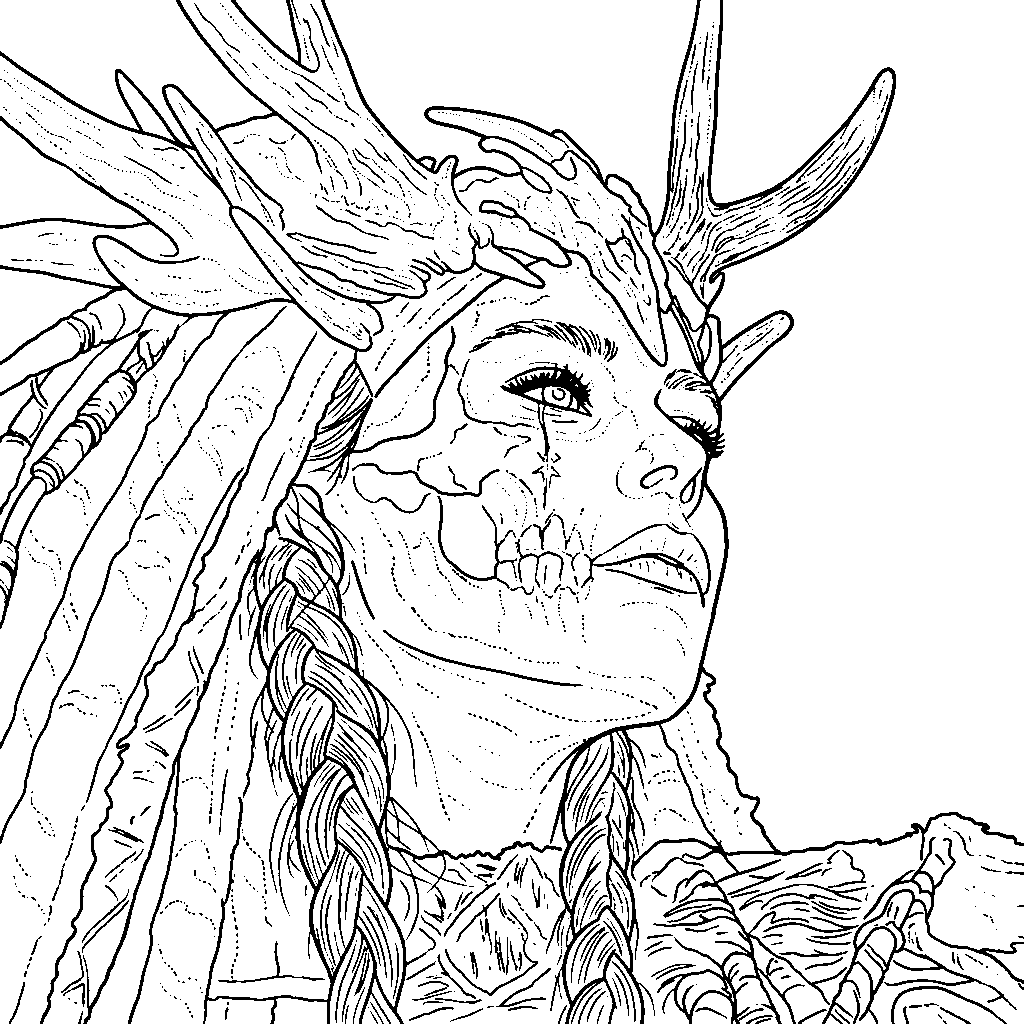
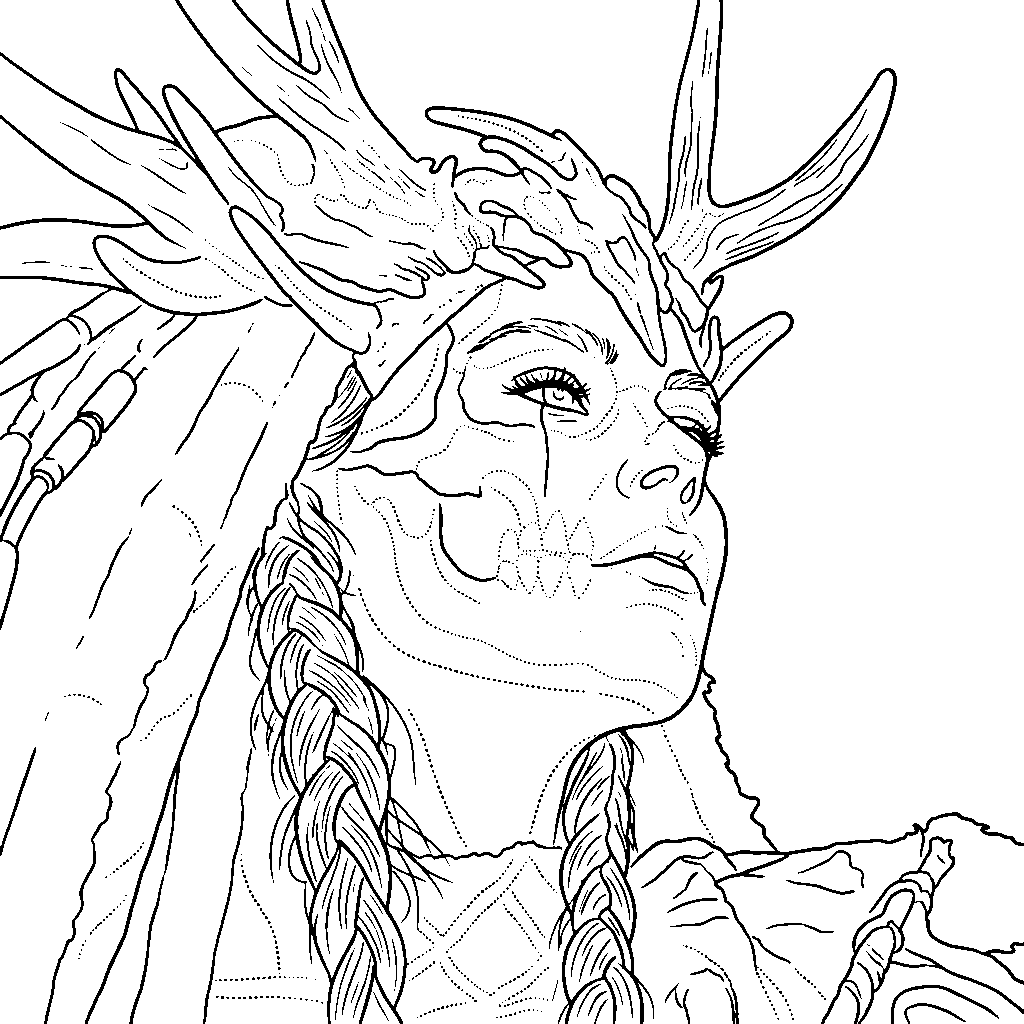
auto-commit for e980bbc4-aa8e-4c5b-bdab-9f3ab5251773

diff --git a/backend/server.py b/backend/server.py
@@ -2174,6 +2174,43 @@ FIDELITY — strict (applies to all detail levels):
   • Main subject silhouette / outer body outline may be slightly heavier (thin-to-medium) but still never thick or bold
   • Dotted/dashed shading guides on cheeks, jawline, brow ridges, nose bridge, under the eyes, lip volumes, and hair light-to-dark transitions keep their normal visible dot size — only the SOLID lines get thinner.
 
+DETAIL PLACEMENT AND LIGHTING LOGIC (applies universally, strongest in HIGH DEF):
+- Detail must NOT be distributed evenly across the subject.
+- Texture and line density must follow LIGHT, not just form.
+- In areas where the source image shows BRIGHT HIGHLIGHTS (where light reflects):
+  → use MORE fine line detail and strand definition
+  → hair/fur should show the MOST individual strands in these regions
+- In areas where the source image falls into SHADOW:
+  → REDUCE line density significantly
+  → simplify into clean mass shapes with minimal internal lines
+  → DO NOT fill shadow areas with dense texture lines
+- Hair and fur must NOT be uniformly filled with strands across the entire form.
+  → uneven density is REQUIRED to correctly represent lighting
+
+DOTTED LINE USAGE (STRICT):
+- Dotted or dashed lines are ONLY for marking AREA TRANSITIONS between light and shadow.
+- Dotted lines must:
+  → follow the boundary between light and dark regions (like contour levels)
+  → describe SHAPE transitions, not texture flow
+- Dotted lines must NOT:
+  → follow hair strand direction
+  → be used to simulate hair texture
+  → be placed inside highlight regions
+- Hair/fur texture = fine SOLID lines.
+- Lighting transitions = DOTTED lines.
+- These are separate systems and must NEVER be mixed in the same region.
+
+FACIAL FEATURE CLARITY:
+- Eyes, iris, pupils, eyelids, and lips must remain ultra-clean and readable.
+- Do NOT stack multiple lines close together in small facial areas.
+- Preserve structure using minimal, precise micro-lines only.
+
+OVERALL GOAL — the stencil must read like intentional tattoo linework:
+- light reveals detail
+- shadow simplifies form
+- dots guide shading placement
+- line density is controlled and purposeful, never uniform
+
 Style: Professional tattoo stencil suitable for thermal transfer paper"""
 
         
@@ -2378,6 +2415,43 @@ FIDELITY — strict (applies to all detail levels):
   • Use the THINNEST possible fine SOLID-LINE weight for ALL interior hair texture / flow lines — noticeably finer than the hair silhouette; hair strands packed close together must remain clearly individual and not merge into each other
   • Main subject silhouette / outer body outline may be slightly heavier (thin-to-medium) but still never thick or bold
   • Dotted/dashed shading guides on cheeks, jawline, brow ridges, nose bridge, under the eyes, lip volumes, and hair light-to-dark transitions keep their normal visible dot size — only the SOLID lines get thinner.
+
+DETAIL PLACEMENT AND LIGHTING LOGIC (applies universally, strongest in HIGH DEF):
+- Detail must NOT be distributed evenly across the subject.
+- Texture and line density must follow LIGHT, not just form.
+- In areas where the source image shows BRIGHT HIGHLIGHTS (where light reflects):
+  → use MORE fine line detail and strand definition
+  → hair/fur should show the MOST individual strands in these regions
+- In areas where the source image falls into SHADOW:
+  → REDUCE line density significantly
+  → simplify into clean mass shapes with minimal internal lines
+  → DO NOT fill shadow areas with dense texture lines
+- Hair and fur must NOT be uniformly filled with strands across the entire form.
+  → uneven density is REQUIRED to correctly represent lighting
+
+DOTTED LINE USAGE (STRICT):
+- Dotted or dashed lines are ONLY for marking AREA TRANSITIONS between light and shadow.
+- Dotted lines must:
+  → follow the boundary between light and dark regions (like contour levels)
+  → describe SHAPE transitions, not texture flow
+- Dotted lines must NOT:
+  → follow hair strand direction
+  → be used to simulate hair texture
+  → be placed inside highlight regions
+- Hair/fur texture = fine SOLID lines.
+- Lighting transitions = DOTTED lines.
+- These are separate systems and must NEVER be mixed in the same region.
+
+FACIAL FEATURE CLARITY:
+- Eyes, iris, pupils, eyelids, and lips must remain ultra-clean and readable.
+- Do NOT stack multiple lines close together in small facial areas.
+- Preserve structure using minimal, precise micro-lines only.
+
+OVERALL GOAL — the stencil must read like intentional tattoo linework:
+- light reveals detail
+- shadow simplifies form
+- dots guide shading placement
+- line density is controlled and purposeful, never uniform
 
 Style: Professional tattoo stencil suitable for thermal transfer paper"""
 
